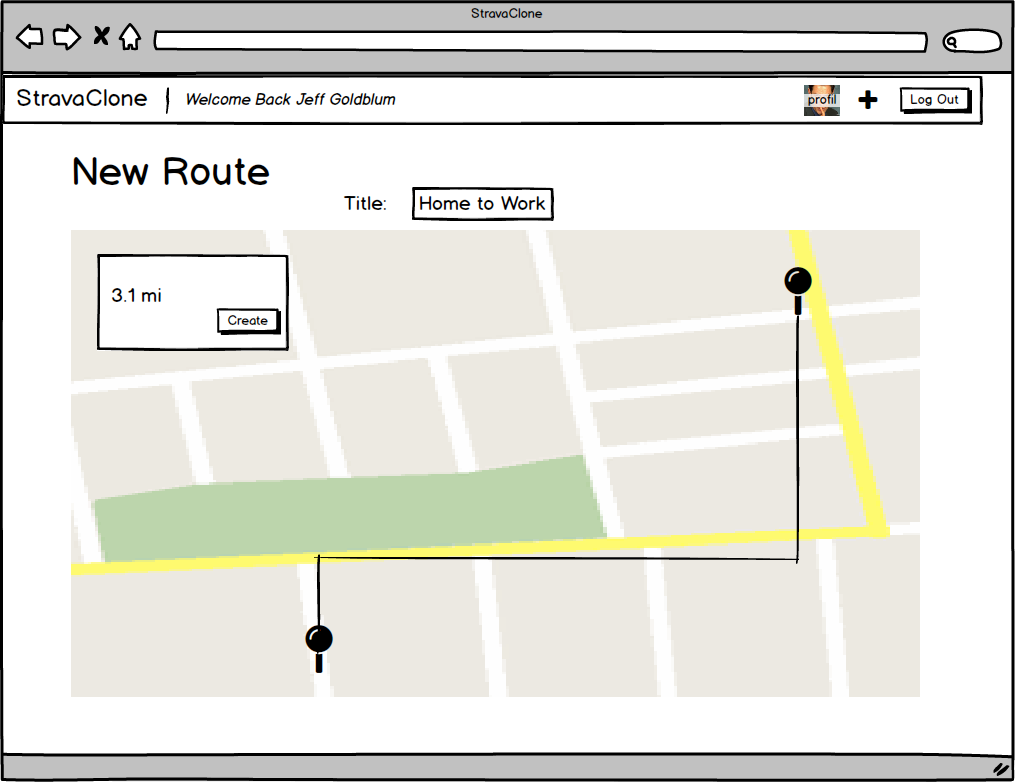
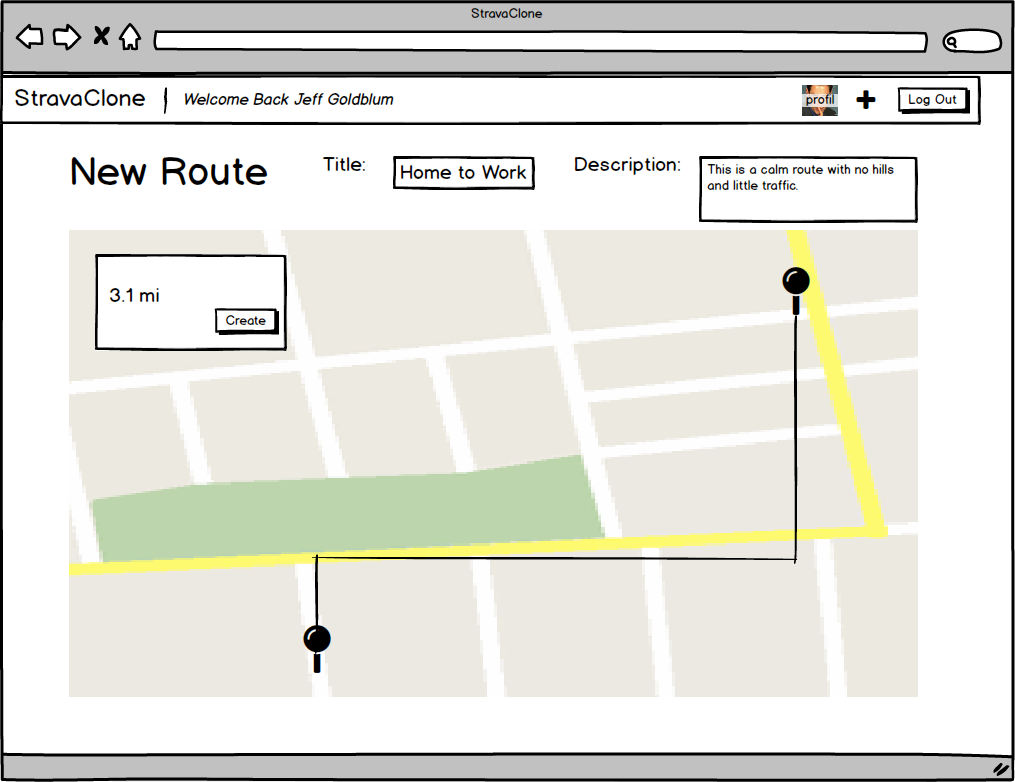
Updated wireframes, created schema outline

diff --git a/docs/schema.md b/docs/schema.md
@@ -1,0 +1,65 @@
+# Schema Information
+
+## users
+column name     | data type | details
+----------------|-----------|-----------------------
+id              | integer   | not null, primary key
+username        | string    | not null, indexed, unique
+password_digest | string    | not null
+session_token   | string    | not null, indexed, unique
+profile_picture | attachment|
+description     | text      |
+birthdate       | date      |
+sex             | string    | (for calculating calories)
+height          | integer   |
+weight          | integer   |
+activity_level  | string    |
+daily_calories  | integer   |
+
+## routes
+column name     | data type | details
+----------------|-----------|-----------------------
+id              | integer   | not null, primary key
+user_id         | integer   | not null, indexed, foreign_key
+map             | JSON      | not null
+title           | string    | not null
+description     | text      | not null
+
+## travel_workout
+column name     | data type | details
+----------------|-----------|-----------------------
+id              | integer   | not null, primary key
+user_id         | integer   | not null, indexed, foreign_key
+route_id        | integer   | not null, indexed, foreign_key
+type            | string    | not null (bike or run)
+date            | date      | not null
+start_time      | date      | not null
+end_time        | date      | not null
+
+## static_workout
+column name     | data type | details
+----------------|-----------|-----------------------
+id              | integer   | not null, primary key
+user_id         | integer   | not null, indexed, foreign_key
+date            | date      | not null
+start_time      | date      | not null
+end_time        | date      | not null
+
+## exercises
+column name     | data type | details
+----------------|-----------|-----------------------
+id              | integer   | not null, primary key
+user_id         | integer   | not null, indexed, foreign_key
+title           | string    | not null
+description     | text      | not null
+muscle_group    | string    | not null
+
+##workout_exercise
+column name     | data type | details
+----------------|-----------|-----------------------
+id              | integer   | not null, primary key
+workout_id      | integer   | not null, indexed, foreign_key
+exercise_id     | integer   | not null, indexed, foreign_key
+sets            | integer   | not null
+reps            | integer   | not null
+weight          | integer   | not null

diff --git a/docs/README.md b/docs/README.md
@@ -29,14 +29,14 @@ StravaClone is a web application inspired by Strava. It will be built using Ruby
 
 ##Design Docs
 
-* [View Wireframes][views]
+* [View Wireframes][wireframs]
 * [React Components][components]
 * [Sample State][sample-state]
 * [Redux Architecture][redux-structure]
 * [API endpoints][api-endpoints]
 * [DB schema][schema]
 
-[views]: docs/views.md
+[views]: docs/wireframes
 [components]: docs/components.md
 [sample-state]: docs/sample-state.md
 [redux-structure]: docs/redux-structure.md
@@ -88,7 +88,7 @@ StravaClone is a web application inspired by Strava. It will be built using Ruby
 - [ ] Style route components
 - [ ] Seed routes
 
-### Phase 4: TravelWorkout and StaticWorkout Models, API, and components(3 days)
+### Phase 4: TravelWorkout, StaticWorkout, Exercises and WorkoutExercise Models, API, and components(3 days)
 
 **Objective:** TravelWorkout, StaticWorkout, and Exercises can be created, read, updated and destroyed through the API.
 
